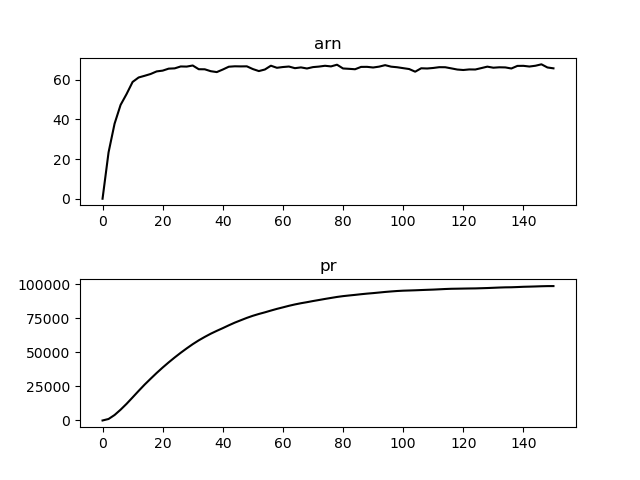
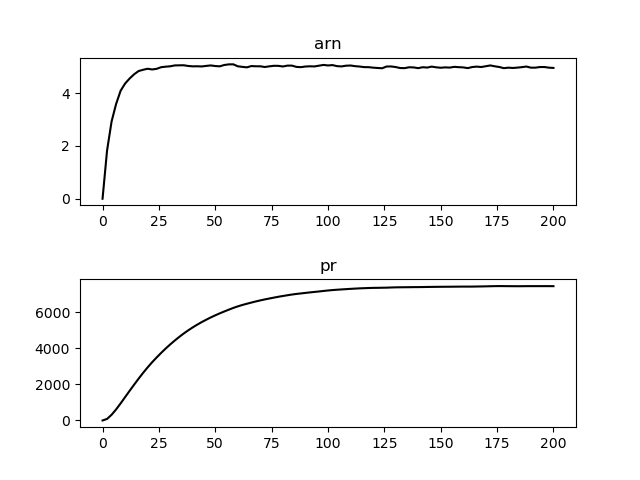
Updated examples

diff --git a/setup.cpp b/setup.cpp
@@ -1,7 +1,7 @@
 // constants. c stands for creation, d for destruction, r for arn, p for protein
 const double
 	tmax = 200.0,
-	dt = 10.0, // time step on the averages
+	dt = 2.0, // time step on the averages
 	cr = 1.0,
 	dr = 0.2,
 	cp = 50,

diff --git a/README.md b/README.md
@@ -20,7 +20,7 @@ The constants of the model are defined on the [setup file](setup.cpp) as:
 | name 	| meaning | default value |
 | --- | --- | --- |
 | tmax | run until time reaches this value | 200 |
-| `dt` | Saves averages every `dt` time units | 10 |
+| `dt` | Saves averages every `dt` time units | 2 |
 | `cr` | average ARN creations per time unit | 1 |
 | `dr` | average ARN destructions per time unit per ARN units | 0.2 |
 | `cp` | average protein creations per ARN unit | 50 |
